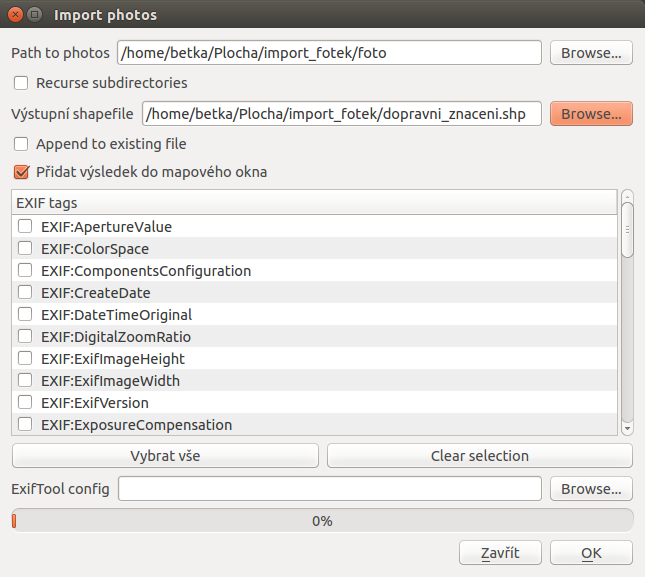
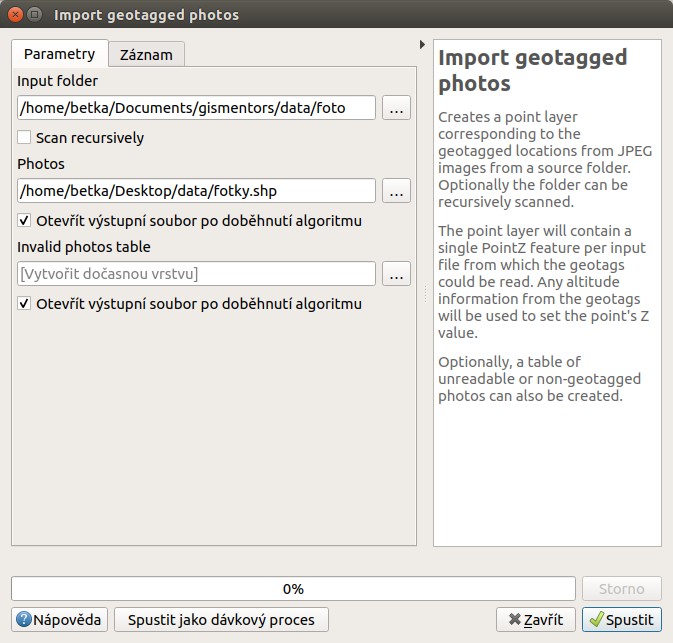
import geotagged photo updated

Changed region(s): [[0.0, 0.0, 1.0, 0.9983]]

diff --git a/ruzne/geotag_obrazky.rst b/ruzne/geotag_obrazky.rst
@@ -1,13 +1,3 @@
-.. |mIconEditable| image:: ../images/icon/mIconEditable.png
-   :width: 1.5em
-.. |mActionIdentify| image:: ../images/icon/mActionIdentify.png
-   :width: 1.5em
-.. |mActionCalculateField| image:: ../images/icon/mActionCalculateField.png
-   :width: 1.5em
-.. |mIconDataDefine| image:: ../images/icon/mIconDataDefine.png
-   :width: 1.5em
-
-
 Obrazová data jako součást vektorů (práce s geotagovanými fotografiemi)
 ^^^^^^^^^^^^^^^^^^^^^^^^^^^^^^^^^^^^^^^^^^^^^^^^^^^^^^^^^^^^^^^^^^^^^^^
 
@@ -33,9 +23,9 @@ zobrazování daného obrázku jako atributu. Kompletní postup je rozepsán ní
 1. Vstupní obrazová data
 ========================
 
-Pro práci s geotagovanými fotkami je nutné mít nainstalovaný
+Pokud chceme vidět data připojená k obrázku typu fotka, mlžeme použít nástroj
 `ExifTool <http://www.sno.phy.queensu.ca/~phil/exiftool/>`_, který nám umožňuje 
-s nimi pracovat.
+tato data číst. Tento nástroj pro tento úkol není potřebný.
 
 .. note:: Instalace na operačním systému *Linux* je možná pomocí
           instalačního balíčku. Pro instalaci na *Windows* je nutné stáhnout
@@ -73,57 +63,17 @@ s nimi pracovat.
       ...
   
 
-
-2. Instalace pluginu
-====================
-
-Pro možnost tvorby vektorové vrstvy z geotagovaných fotek využijeme plugin
-`Geotag and import photos <https://hub.qgis.org/projects/geotagphotos/wiki>`_.
-Tento nainstalujeme standardní cestou přes :menuselection:`Zásuvné moduly -->
-Spravovat a instalovat zásuvné moduly...`. Potřebný modul je pouze
-experimentální, proto musíte být povolené zobrazování experimentálních modulů.
-
-Po instalaci se modul nachází v :menuselection:`Vektor --> Geotag and import
-photos` (:numref:`menu-geotag`).
-
-.. _menu-geotag:
-
-.. figure:: images/geotag_menu.png
-
-   Umístění nástrojů přidaného pluginu v menu QGIS.
-
-.. note::
-   
-   Pro práci v OS Windows je nutné nastavit cestu k složce :item:`ExifTool`,
-   ve které se nachází `exiftool.exe` (:numref:`exif-win`).
-   Nastavení se nachází v :menuselection:`Vektor --> Geotag and import photos 
-   --> Settings`. 
-   Na OS Linux toto není potřebné.
-
-   .. _exif-win:
-
-   .. figure:: images/exif_win.png
-      :class: small
-
-      Okno pro nastavení cesty k `exiftool.exe`. 
-
 .. _import:
 
-3. Import fotek do vektorové vrstvy
+2. Import fotek do vektorové vrstvy
 ===================================
 
 Pro vytvoření bodové vrstvy z jednotlivých fotografií použijeme funkci
-pluginu :item:`Import photos`.  Prvním krokem je zadání adresáře, ve
-kterém se nacházejí požadované fotky.  Po zadání adresáře s fotkami se
-do pole `EXIF tags` vypíšou nalezené kategorie hodnot.  Pro základní
-zpracování dále toto pole nemusíme používat. Pokud bychom označili
-některý z nalezených tagů, tak by se po importu uložil jako další
-atribut.  Hodnoty se mohou lišit podle toho, jaké údaje dané zařízení
-pořizuje.  Pomocí volby :item:`Recurse subdirectories` můžeme povolit
-prohledávání i podadresářů námi vybrané složky.  Druhým krokem je
-zadání výstupního souboru ve formátu Esri Shapefile. Pokud bychom
-chtěli jenom doplnit již existující vektorovou vrstvu, tak použijeme
-volbu :item:`Append to existing file`.
+pluginu :item:`Import geotagged photos`.  
+Prvním vstupem je zadání adresáře, ve kterém se nacházejí požadované fotky.
+Pomocí volby :item:`Scan recursively` můžeme povolit
+prohledávání i podadresářů námi vybrané složky.
+Druhým krokem je zadání výstupního souboru v požadovaném formátu.
 
 .. figure:: images/import_photos.png
 
@@ -135,81 +85,74 @@ pracuje se souřadnicemi v systému *WGS - 84*. Výsledná vrstva má tudíž te
 souřadnicový systém (:epsg:`4326`).
 
 Pokud si otevřeme atributovou tabulku (:numref:`attribute-tab`), tak se
-tam standardně nachází 2 atributy.  Prvním je `filepath` - absolutní
-cesta k obrázku v čase vytvoření a `filename` - název souboru.
+tam nacházejí různé atributy. První atributy definují umístění fotky na disku.
+Další definují geometrii tak, jak ji detekovalo dané zařízení. 
 
 .. _attribute-tab:
 
-.. figure:: images/attr_table.png
+.. figure:: images/geotag_attr_table.png
+   :class: large
 
    Ukázka atributové tabulky po importu geotagovaných fotografií.
 
-4. Vykreslování obrázku v detailu prvku
+3. Vykreslování obrázku v detailu prvku
 =======================================
 
 Pokud má vrstva jako atribut zapsanou cestu k obrázku (nebo přímo název
 souboru), tak je možné zobrazovat tento obrázek při zobrazení detailu prvku.
 
-Ve vlastnostech vrstvy si otevřeme záložku :item:`Pole`, kde se nachází přehled
-o vlastnostech dané vrstvy. V tomto případě vidíme stále původní vlastnosti a
-vidíme taky, že mají obě nastaveno :item:`Úprava textu`. (Jde tedy o klasické
-vlastnosti s textem, které můžeme upravovat přepisováním.)
+Ve vlastnostech vrstvy si otevřeme záložku :item:`Formulář atributů`, kde se
+nachází přehled a nastavení všech atributů.
+Při kliknutí na položku atributu, která obsahuje cestu k originální fotce se
+otevře menu pro nastavení této položky. V našem případě se jedná o atribut
+`photo`. Klíčové je zejména nastavení v části  :item:`Typ widgetu`, kde zvolíme
+typ :item:`Příloha` a nastavíme další dodateční parametry pro jeho
+vykreslování.
 
-Prvním krokem je zapnutí editace pomocí ikony |mIconEditable|
-:sup:`Přepnout na režim editace`.  Atribut `filepath` použijeme jako
-zdroj pro vykreslení obrázku.  Kliknutím na tlačítko s textem
-:item:`Úprava textu` se dostaneme do možností nastavení této
-vlastnosti.  V postranním menu vybereme :item:`Foto`. V detailnějším
-nastavení je pak možné zakázat možnost editace, nebo nastavení
-popisku. Dále je pak možné nastavit velikost obrázku pro
-vykreslování. Pokud velikost nebude nastavena tak se odhadne optimum.
-
-Potvrzením tohoto nastavení se dostaneme do předchozího okna. Zde je už vidět,
-že vlastnost `filepath` má změněné nastavení.
 
 Při identifikaci prvku v mapovém okně pomocí |mActionIdentify|
 :sup:`Identifikovat prvky` se otevře detail prvku, kde je vykreslen požadovaný
 obrázek.
 
-.. figure:: images/set_image.png
+.. figure:: images/geotag_set_image.png
    :class: large
    
-   Jednotlivé kroky nastavení pro vykreslování obrázku.
+   Nastavení pro vykreslování obrázku.
 
 
 .. tip::
    Pokud chceme data předávat dál, tak je dobré myslet na používání relativních
    cest. V příkladě jsme použili absolutní cestu k obrázku pro jeho vykreslení.
    Pokud bychom chtěli předat složku i se všemi daty dál, tak je ideální využít
-   relativní cestu. 
+   relativní cestu. Pro toto nastavení jsou v  menu samostatná nastavení.
 
-   Celý projekt je uložen ve složce s názvem `vektor_obrázky`. Přímo v
+   Celý projekt je uložen ve složce s názvem `import_fotek`. Přímo v
    této složce je pak Shapefile, který vznikl importem geotagovaných
    fotek, projekt a pak samotná složka s názvem `fotky`.
 
-   .. figure:: images/files.png
+   .. figure:: images/geotag_files.png
       :class: small
 
       Struktura uložení fotek, projektu a souboru ve formátu Shapefile.
 
-   Pomocí :item:`Field calculatoru` si přidáme nový atribut, který bude složen z
+   Pomocí :item:`Kalkulačky polí` si přidáme nový atribut, který bude složen z
    názvu složky, ve které jsou uloženy fotky (fotky), lomítka a hodnoty atributu
    `filename`. Vytvoření nové hodnoty bude tedy definováno výrazem 
-   ``concat('fotky/',"filename")``.
+   ``concat('foto/',"filename")``.
 
-   .. figure:: images/field_calc.png
+   .. figure:: images/geotag_field_calc.png
       :class: small
 
       Vytvoření atributu s relativní cestou k obrázku.
 
-   Pak je nutné znovu nastavit nový atribut pro zobrazování fotky. (Informace o
-   používání relativních cest je uložena v nastavení projektu, proto je nutné
-   pracovat v projektu)
+   Pak je nutné znovu nastavit nový atribut pro zobrazování fotky. 
+   Pokud je vrstva v režimu editace, tak je možné zobrazovat fotku i přímo
+   v atributové tabulce po kliknutí do její položky.
 
-   .. figure:: images/rel_path.png
+   .. figure:: images/geotag_rel_path.png
       :class: large
 
-      Ukázka nastavení vlastností a následné identifikace prvku.
+      Detail prvku ri nastavení relativné cesty a přímo v atributové tabulce.
 
    V rámci změny OS může dojít k problému se značením cesty. Pokud je stále k
    dispozici název fotografie u daného prvku, tak si cestu můžete vyskládat
